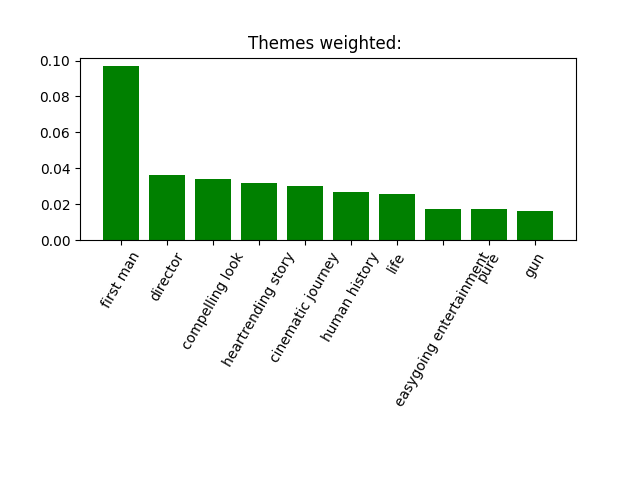
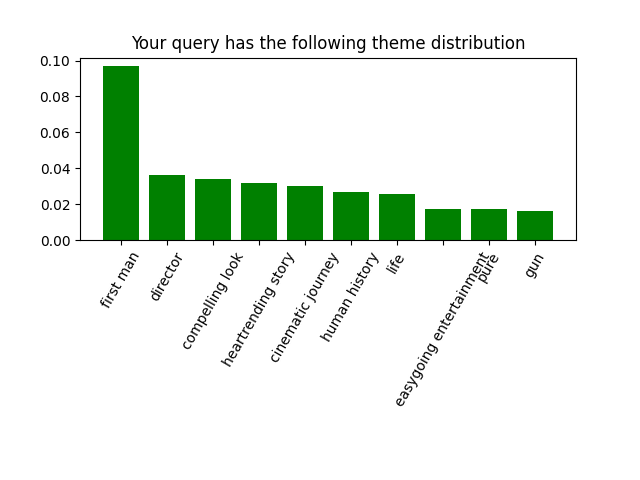
#39 made all the graphs uniform and aligned them at the top.

Changed region(s): [[0.1875, 0.0625, 0.8125, 0.125]]

diff --git a/final_project/templates/index.html b/final_project/templates/index.html
@@ -17,24 +17,23 @@
             <input type="submit" value="Search">
         </form>
       
-	<table style="float:left;"> 
+	<table style="float:top;"> 
 		<!--insert the query plot-->
 		<tr>
-			<td></td>
-			<td align= "right"><font face="Courier New" size='2' color="black"><i>Your query has the following adjective distribution</i></font><img src="./static/adj_{{ query }}_plot_bar.png" style="width: 500px; height 100%" align="right"></td>
+			<td><font face="Courier New" size='2' color="black"><i>Your query has the following adjective distribution</i></font><img src="./static/adj_{{ query }}_plot_bar.png" style="width: 400px; height 100%;margin-left=30px; border: 5px solid #555;align:right"></td>
                 
-                		<td align= "middle"><font face="Courier New" size='2' color="black"><i>Your query has the following verb distribution</i></font><img src="./static/verb_{{ query }}_plot_bar.png" style="width: 500px; height 100%" align="right"></td>
+                		<td><font face="Courier New" size='2' color="black"><i>Your query has the following verb distribution</i></font><img src="./static/verb_{{ query }}_plot_bar.png" style="width: 400px; height 100%;margin-left=30px; border: 5px solid #555;align:right"></td>
                 
                 
-                		<td align= "left"><font face="Courier New" size='2' color="black"><i>Your query has the following theme distribution</i></font><img src="./static/theme_plot.png" style="width: 600px; height 100%; float:right;margin-left=30px; border: 5px solid #555;">
-
+                		<td><font face="Courier New" size='2' color="black"><i>Your query has the following theme distribution</i></font><img src="./static/theme_plot.png" style="width: 400px; height 100%;margin-left=30px; border: 5px solid #555;align:right"">
+</table>
 		<tr>
 
    <!--Go through each item in the "matches" variable sent from
                 search() function in the Flask app-->
-            
+            <br>
             {% for item in matches | unique %}
-                <p style="width:800px;margin-top: 0.2em;
+                <p style="margin-top: 0.2em;
   margin-bottom: 0.2em;">{{ item }}</p>
                 <br>
             <!--End for loop-->

diff --git a/final_project/flask_search_engine.py b/final_project/flask_search_engine.py
@@ -173,6 +173,7 @@ def generate_adj_plot(query, graph_matches):
     
     #bar plot
     fig2 = plt.figure()
+    plt.title("Your query has the following adjective distribution")
     plt.bar(range(len(dist_dict)), list(dist_dict.values()), align='center', color='g')
     plt.xticks(range(len(dist_dict)), list(dist_dict.keys()),rotation=80)   # labels are rotated
     plt.gcf().subplots_adjust(bottom=0.30)                                  # if you comment this line, your labels in the x-axis will be cutted
@@ -195,6 +196,7 @@ def generate_verb_plot(query, graph_matches):
 
     #bar plot
     fig2 = plt.figure()
+    plt.title("Your query has the following verb distribution")
     plt.bar(range(len(dist_dict)), list(dist_dict.values()), align='center', color='g')
     plt.xticks(range(len(dist_dict)), list(dist_dict.keys()),rotation=80)   # labels are rotated
     plt.gcf().subplots_adjust(bottom=0.30)                                  # if you comment this line, your labels in the x-axis will be cutted
@@ -203,7 +205,7 @@ def generate_verb_plot(query, graph_matches):
 
 def generate_theme_plot(keyphrases): #creates a scatterplot by theme and weight
     fig = plt.figure()
-    plt.title("Themes weighted: ")
+    plt.title("Your query has the following theme distribution")
     plt.bar(range(len(keyphrases.keys())), list(keyphrases.values()), align='center', color='g')
     plt.xticks(range(len(keyphrases)), list(keyphrases.keys()), rotation=60)   # labels are rotated
     plt.gcf().subplots_adjust(bottom=0.50)                                  # if you comment this line, your labels in the x-axis will be cutted
